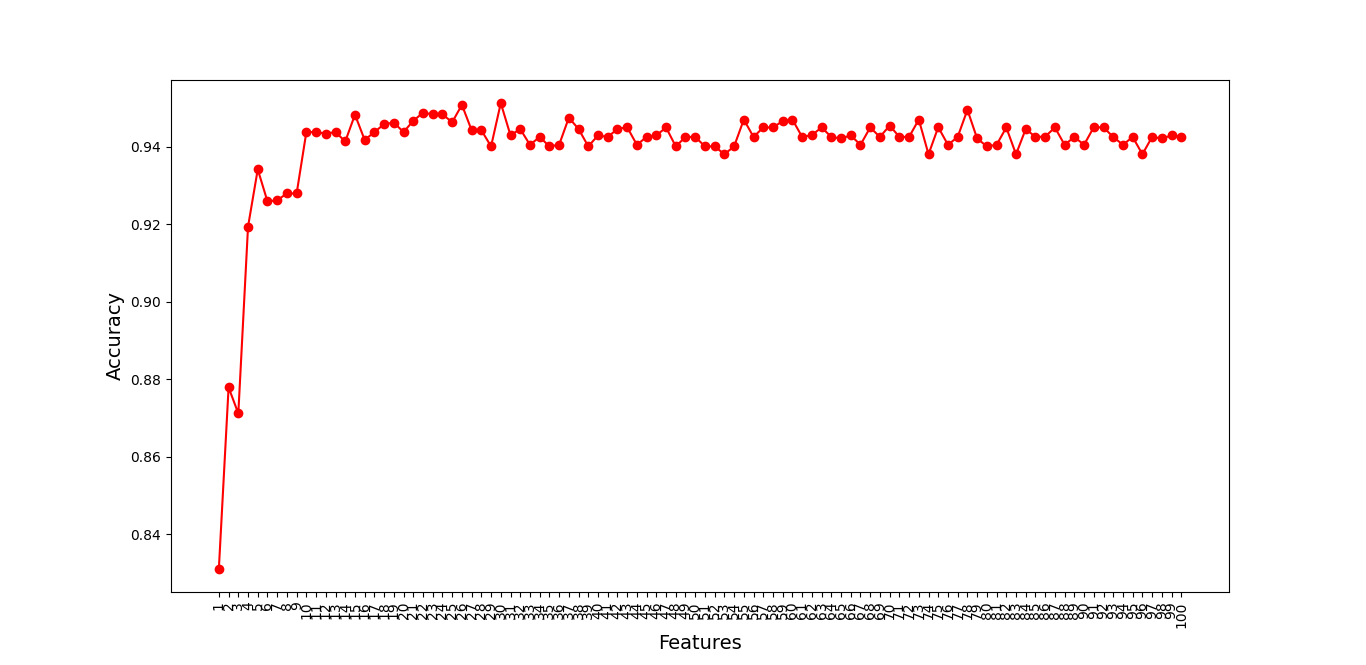
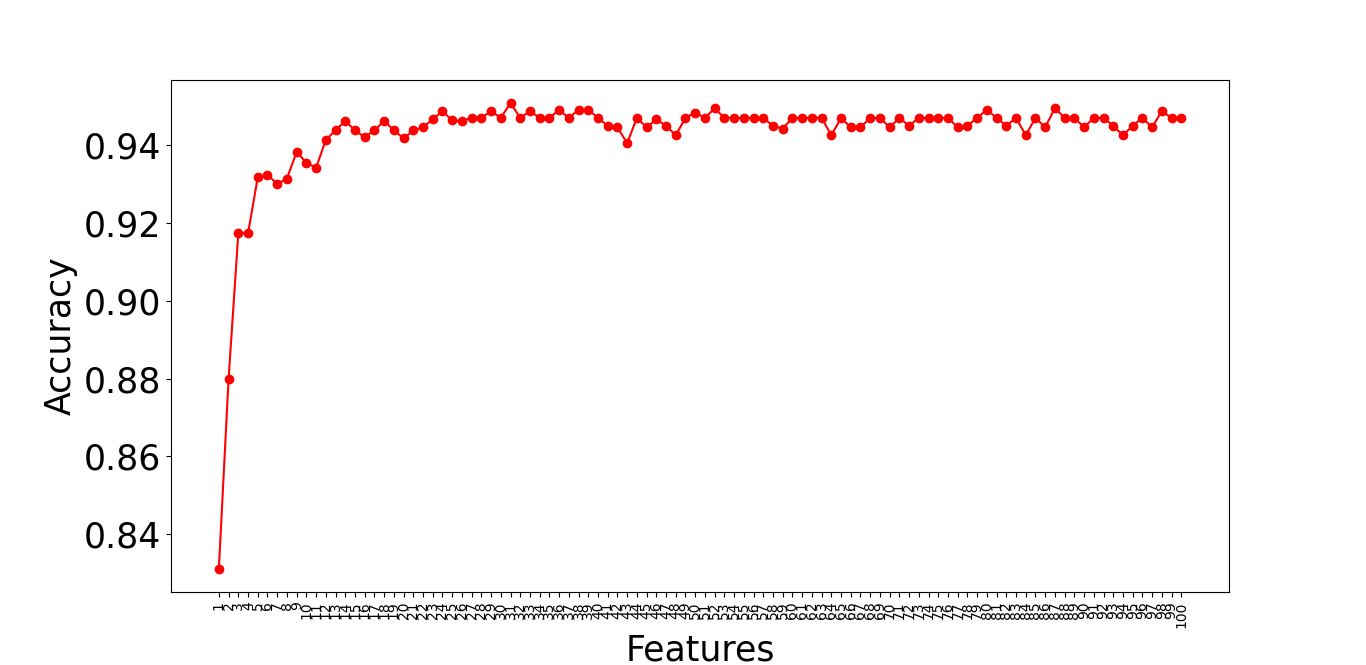
update RS and image

diff --git a/main.py b/main.py
@@ -115,16 +115,18 @@ df1.to_csv('result_'+name_result+'.csv')
 # data for drawing line
 data_line = list(av_row)
 # Code draw line
+plt.xlabel('Features', fontsize=25)
+plt.ylabel('Accuracy', fontsize=25)
+plt.tick_params(axis="y", labelsize=25)
 plt.plot(name_columns_graph, data_line, color='red', marker='o')
 plt.xticks(rotation=90)
-# plt.title('Predict using ' + name_predict, fontsize=14)
-plt.xlabel('Features', fontsize=14)
-plt.ylabel('Accuracy', fontsize=14)
 plt.grid(False)
 # Code draw Boxplot
+plt.rc('ytick', labelsize=20)
 df_new.plot.box(grid=False, rot=90)
-plt.xlabel('Features', fontsize=14)
-plt.ylabel('Accuracy', fontsize=14)
+plt.xlabel('Features', fontsize=25)
+plt.ylabel('Accuracy', fontsize=25)
+
 
 plt.show()
 
